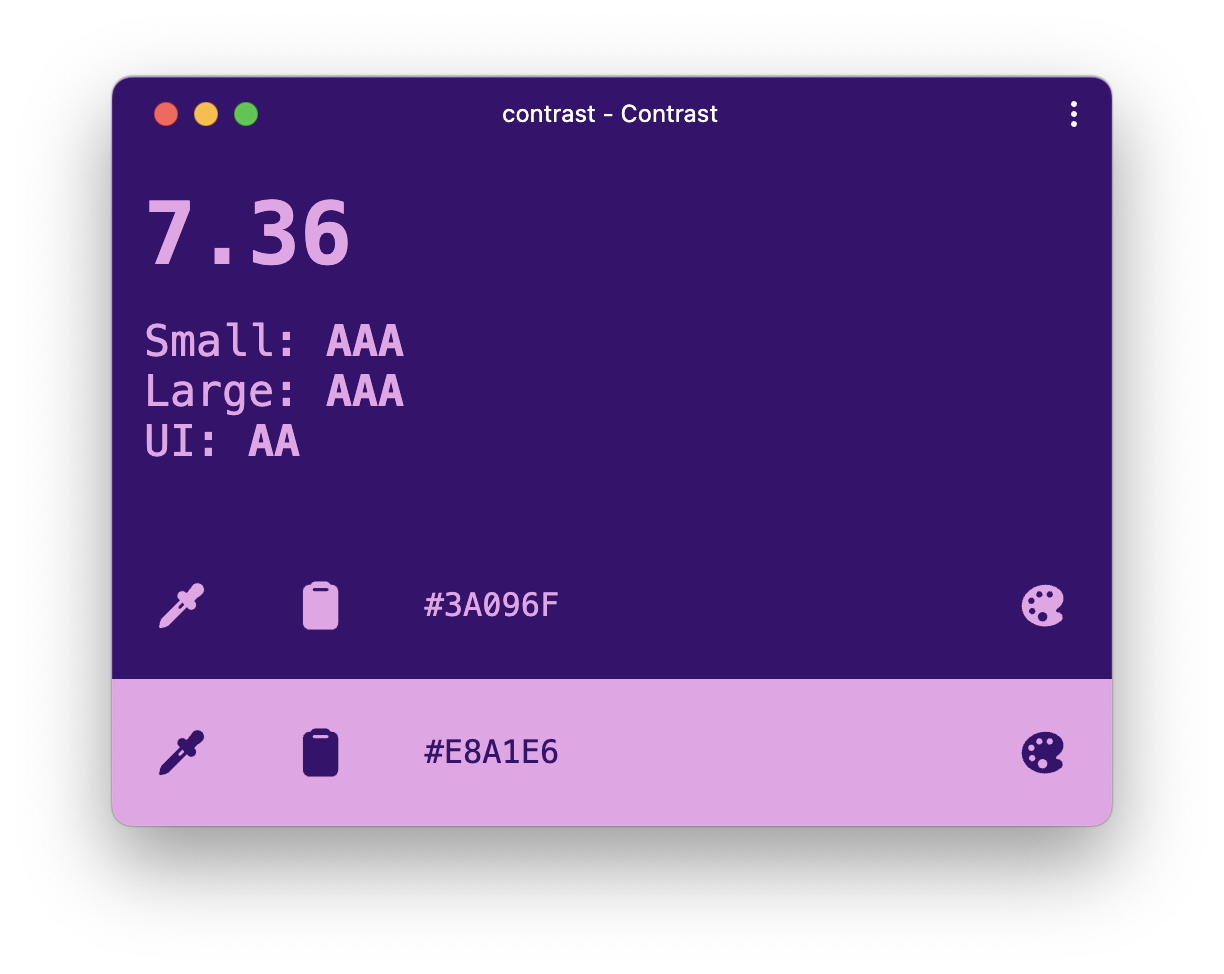
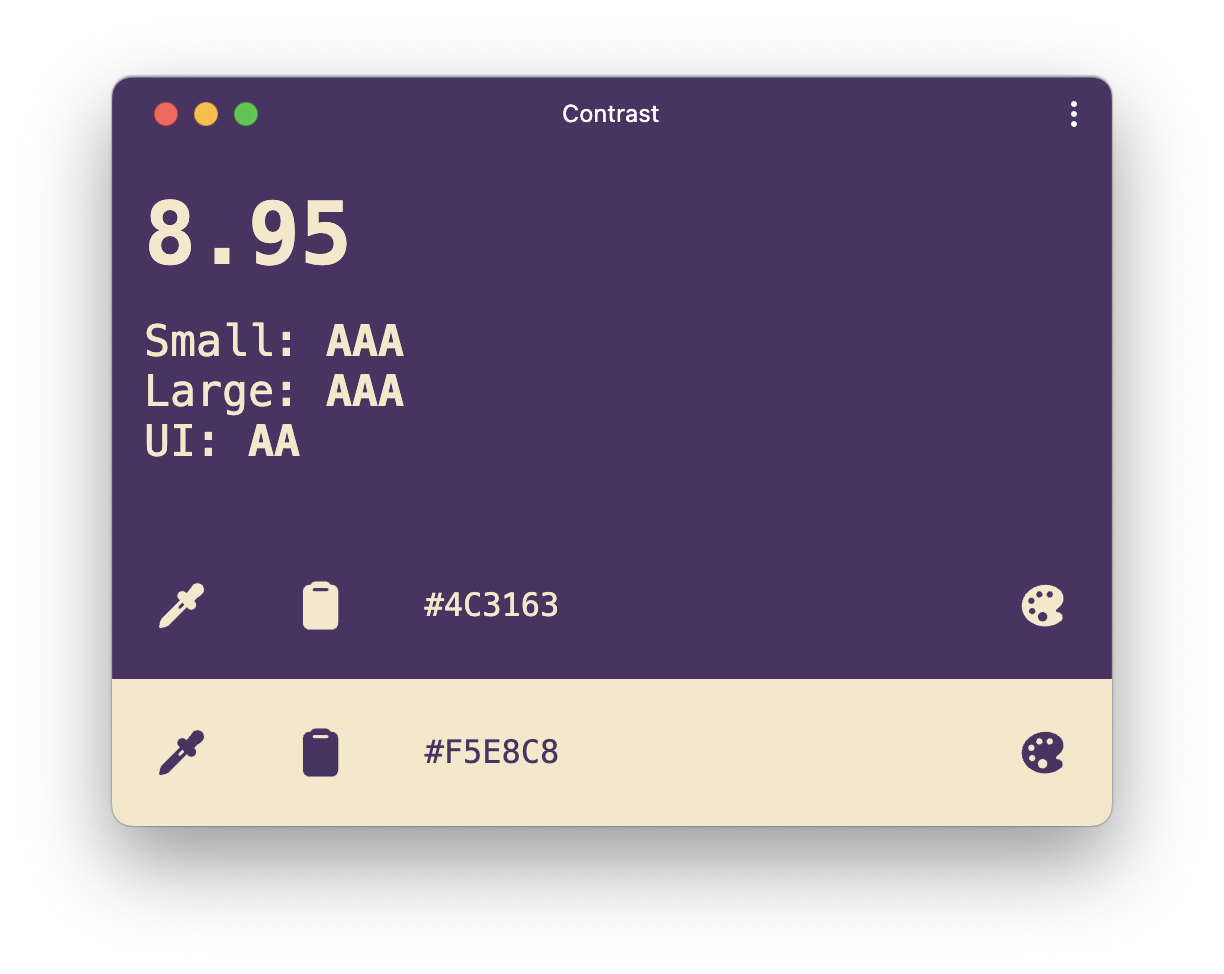
feat: use new default colors

diff --git a/src/App.vue b/src/App.vue
@@ -23,8 +23,8 @@ const getContrast = () => {
   return ratio.toString().match(/^-?\d+(?:\.\d{0,2})?/)[0];
 }
 
-const foreground = ref('#e7c296');
-const background = ref('#29344b');
+const foreground = ref('#f5e8c8');
+const background = ref('#4c3163');
 const contrast = ref(getContrast())
 const metaThemeColor = document.querySelector('meta[name=theme-color]') as HTMLMetaElement;
 
